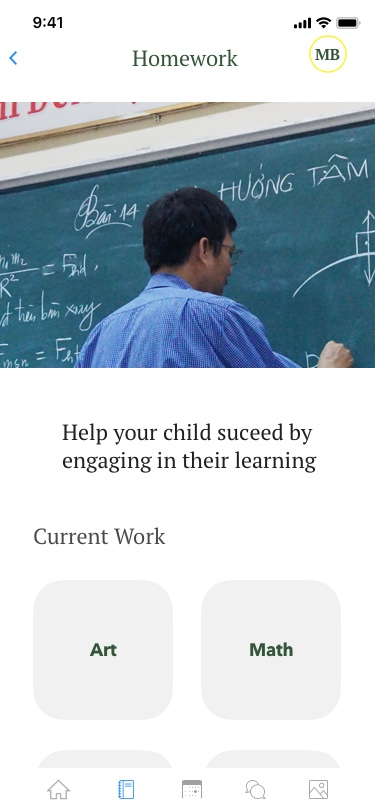
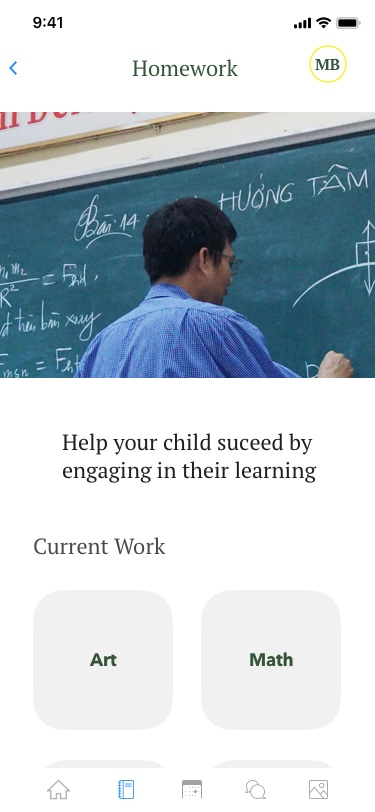
finished css for ipad and added status bar for all hifi

diff --git a/village-case-study.html b/village-case-study.html
@@ -502,7 +502,7 @@
 
 							<h4 class="village-process-label">Final Messages Page</h4>
 							<!--				insert message page-->
-							<img src="Images/village-hifi-message-dashboard.jpg" class="village-hifi-wireframe-mocks" alt="village final hifi messages">
+							<img src="Images/village-hifi-message-dashboard-full.jpg" class="village-hifi-wireframe-mocks" alt="village final hifi messages">
 							<p>Messages page allows you to see current messages, as well as create, archive or delete messages in your inbox</p>
 						</div>
 						<div class="village-final-hifi-homework-grid">
@@ -518,7 +518,7 @@
 					<div class="village-final-hifi-branding-pages">
 						<!--				insert product pages-->
 						<img src="Images/village-hifi-about-definition.jpg" class="village-hifi-wireframe-mocks" alt="village final hifi brand one">
-						<img src="Images/village--hifi-about-teachers-and-homework.jpg" class="village-hifi-wireframe-mocks" alt="village final hifi brand two">
+						<img src="Images/village-hifi-about-start-your-village.jpg" class="village-hifi-wireframe-mocks" alt="village final hifi brand two">
 					</div>
 
 					<h4 class="village-process-label">Full Dashboard Cycle - From Sketch To Hi-Fi</h4>
@@ -570,19 +570,7 @@
 
 					<p>Images were added to the top of all pages for consistency.</p>
 
-					<div class="village-about-images-consistency">
-
-
-
-						<!--			let us help your image flourish (pg 60 on slide)-->
-					</div>
-
 					<p>Text blocks felt a bit heavy on the eyes, so they were broken up to ease reader strain, which also allowed for a bit of branding via image.</p>
-
-					<div class="village-images-to-about-pages">
-						<!--				page 61 slides add about pages images-->
-					</div>
-
 
 					<p>While it's use was consistent, users didn't like an occasional light yellow background, so it was removed.</p>
 					<div class="village-about-pages-remove-yellow-background">

diff --git a/sample-village.css b/sample-village.css
@@ -402,15 +402,6 @@ section {
 
 
 
-/*
-.village-hifi-wireframe-with-shadow-border {
-	box-shadow: 0 0 10px #777777;
-	margin: 30px 0;
-	padding 3rem 0;
-}
-*/
-
-
 .village-introduction h3 {
 	padding: 3rem 0;
 	text-align: center;
@@ -678,7 +669,6 @@ section {
 		grid-template-columns: 1fr 1fr 1fr;
 		grid-gap: 3rem;
 		text-align: center;
-		padding: 2rem 0;
 	}
 
 	.village-market-research h3 {
@@ -885,11 +875,15 @@ section {
 		margin: 0 auto;
 	}
 
+	.group-hifi-wireframes .village-hifi-wireframe-mocks {
+		margin: 6rem 0;
+	}
+
 	.village-hifi-final-three-mock-grid {
 		display: grid;
 		grid-gap: 2rem;
 		grid-template-columns: 1fr 1fr 1fr;
-		padding: 2rem 0;
+		margin: 3rem 0;
 	}
 
 	.village-hifi-final-three-mock-grid .village-process-label {
@@ -916,6 +910,7 @@ section {
 	}
 
 	.conclusion-wrap {
+		margin: 0 13rem;
 		padding: 2rem 0;
 	}
 
